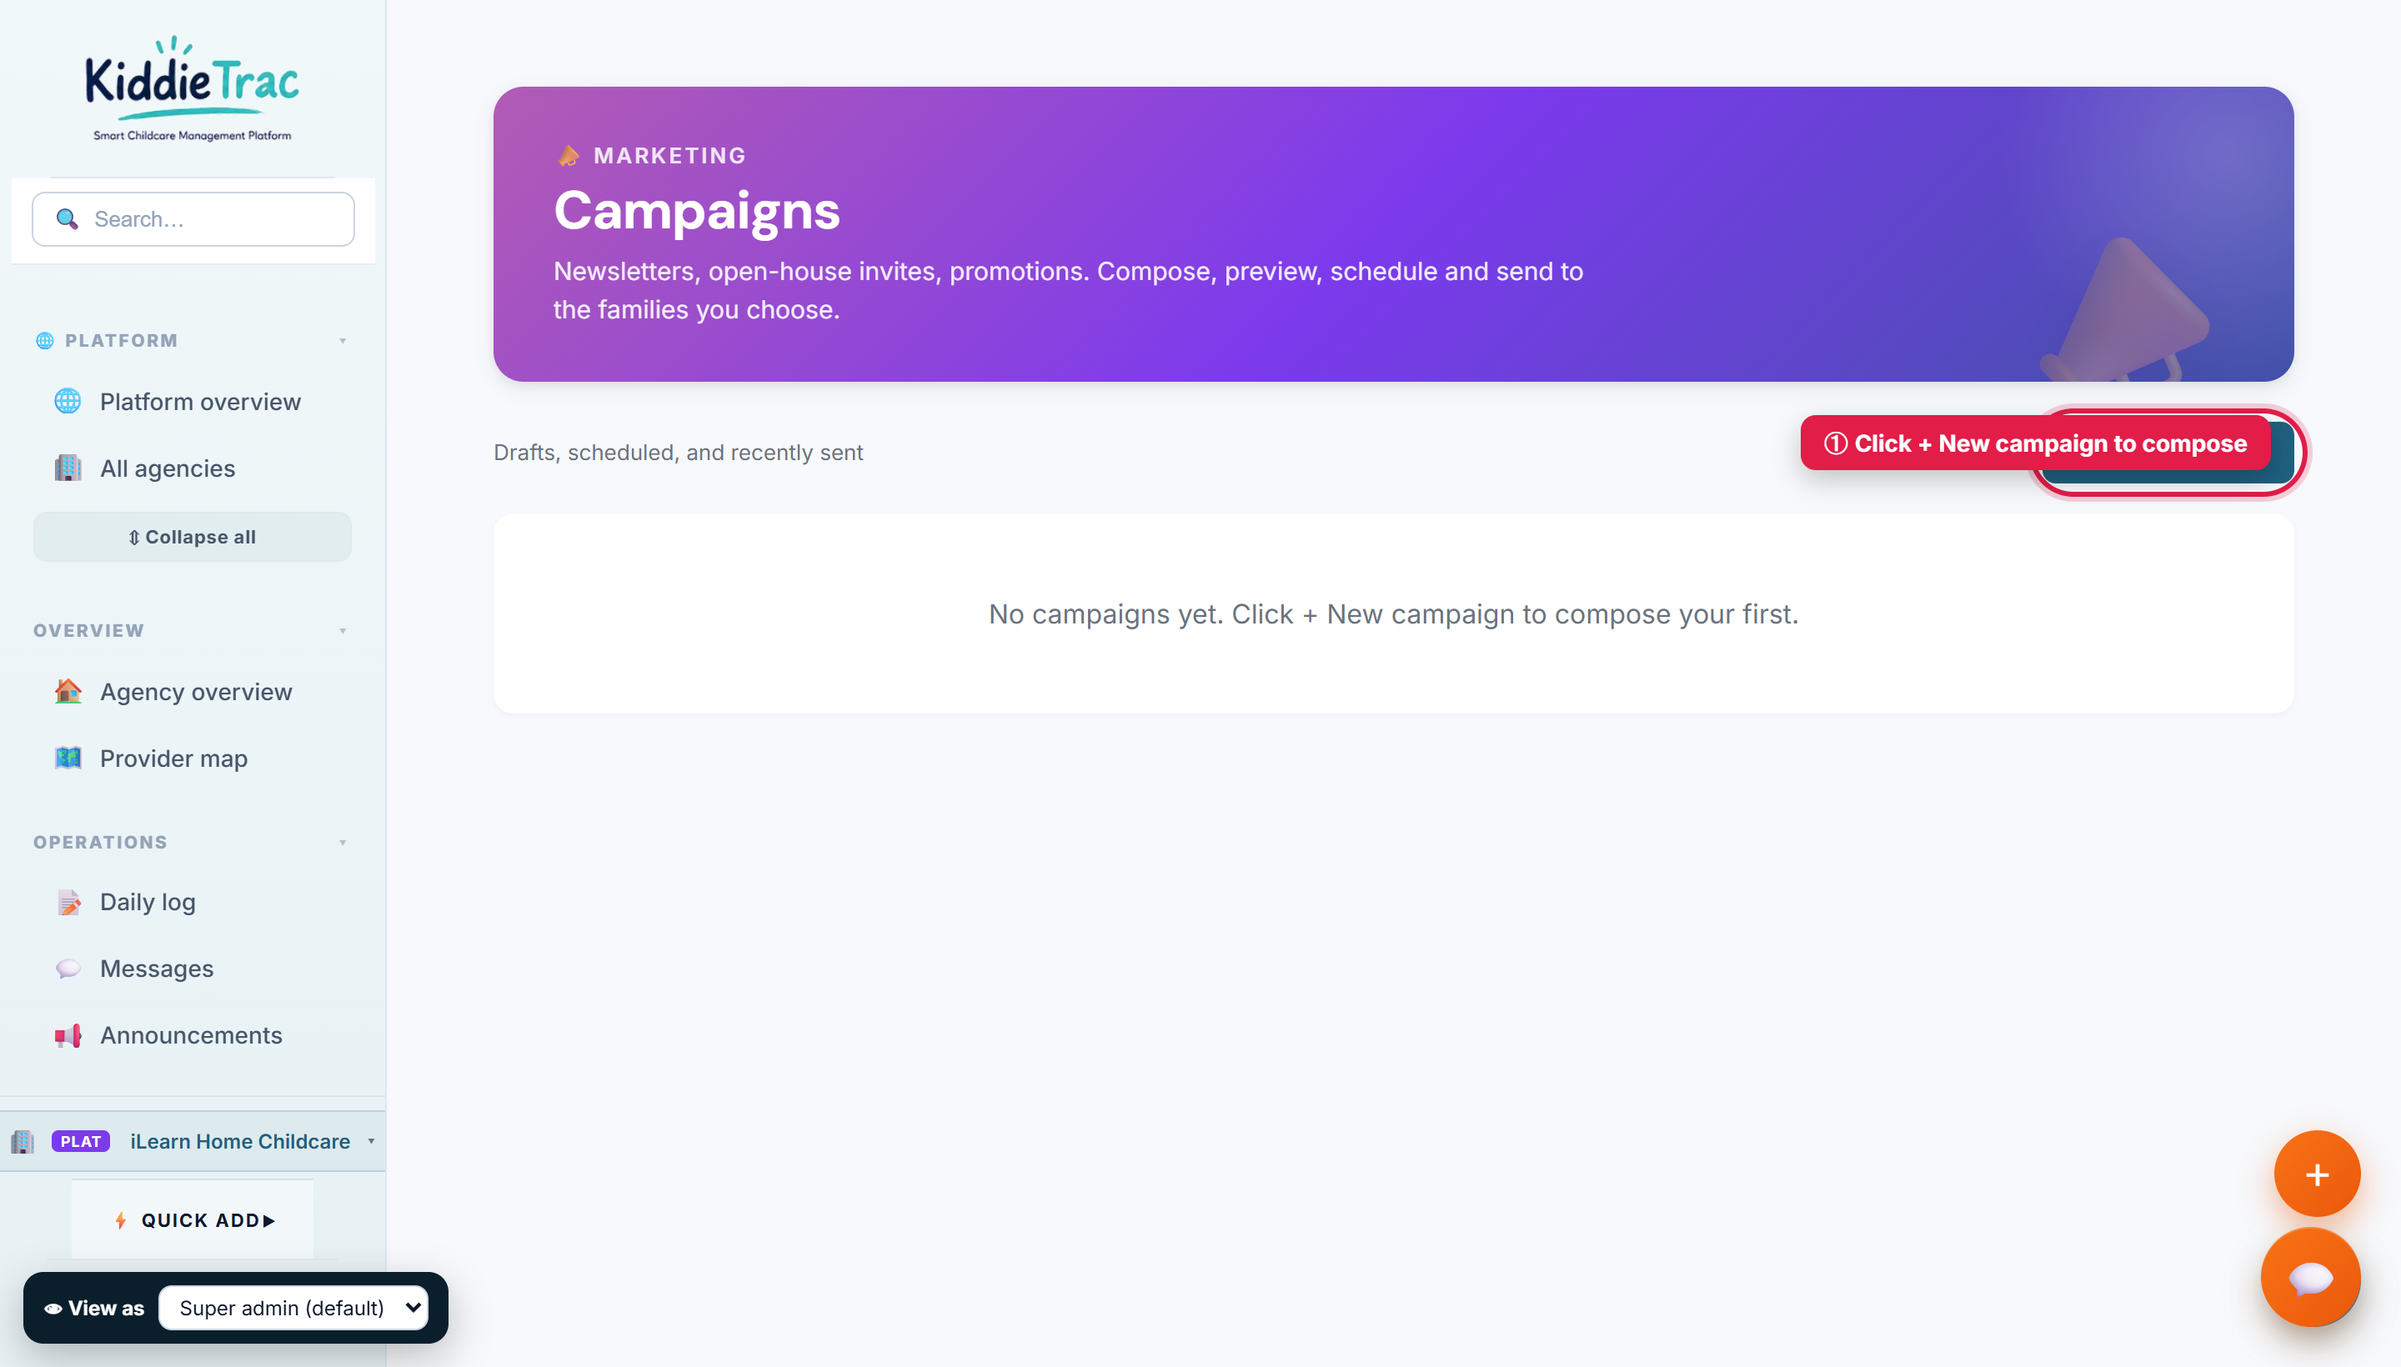
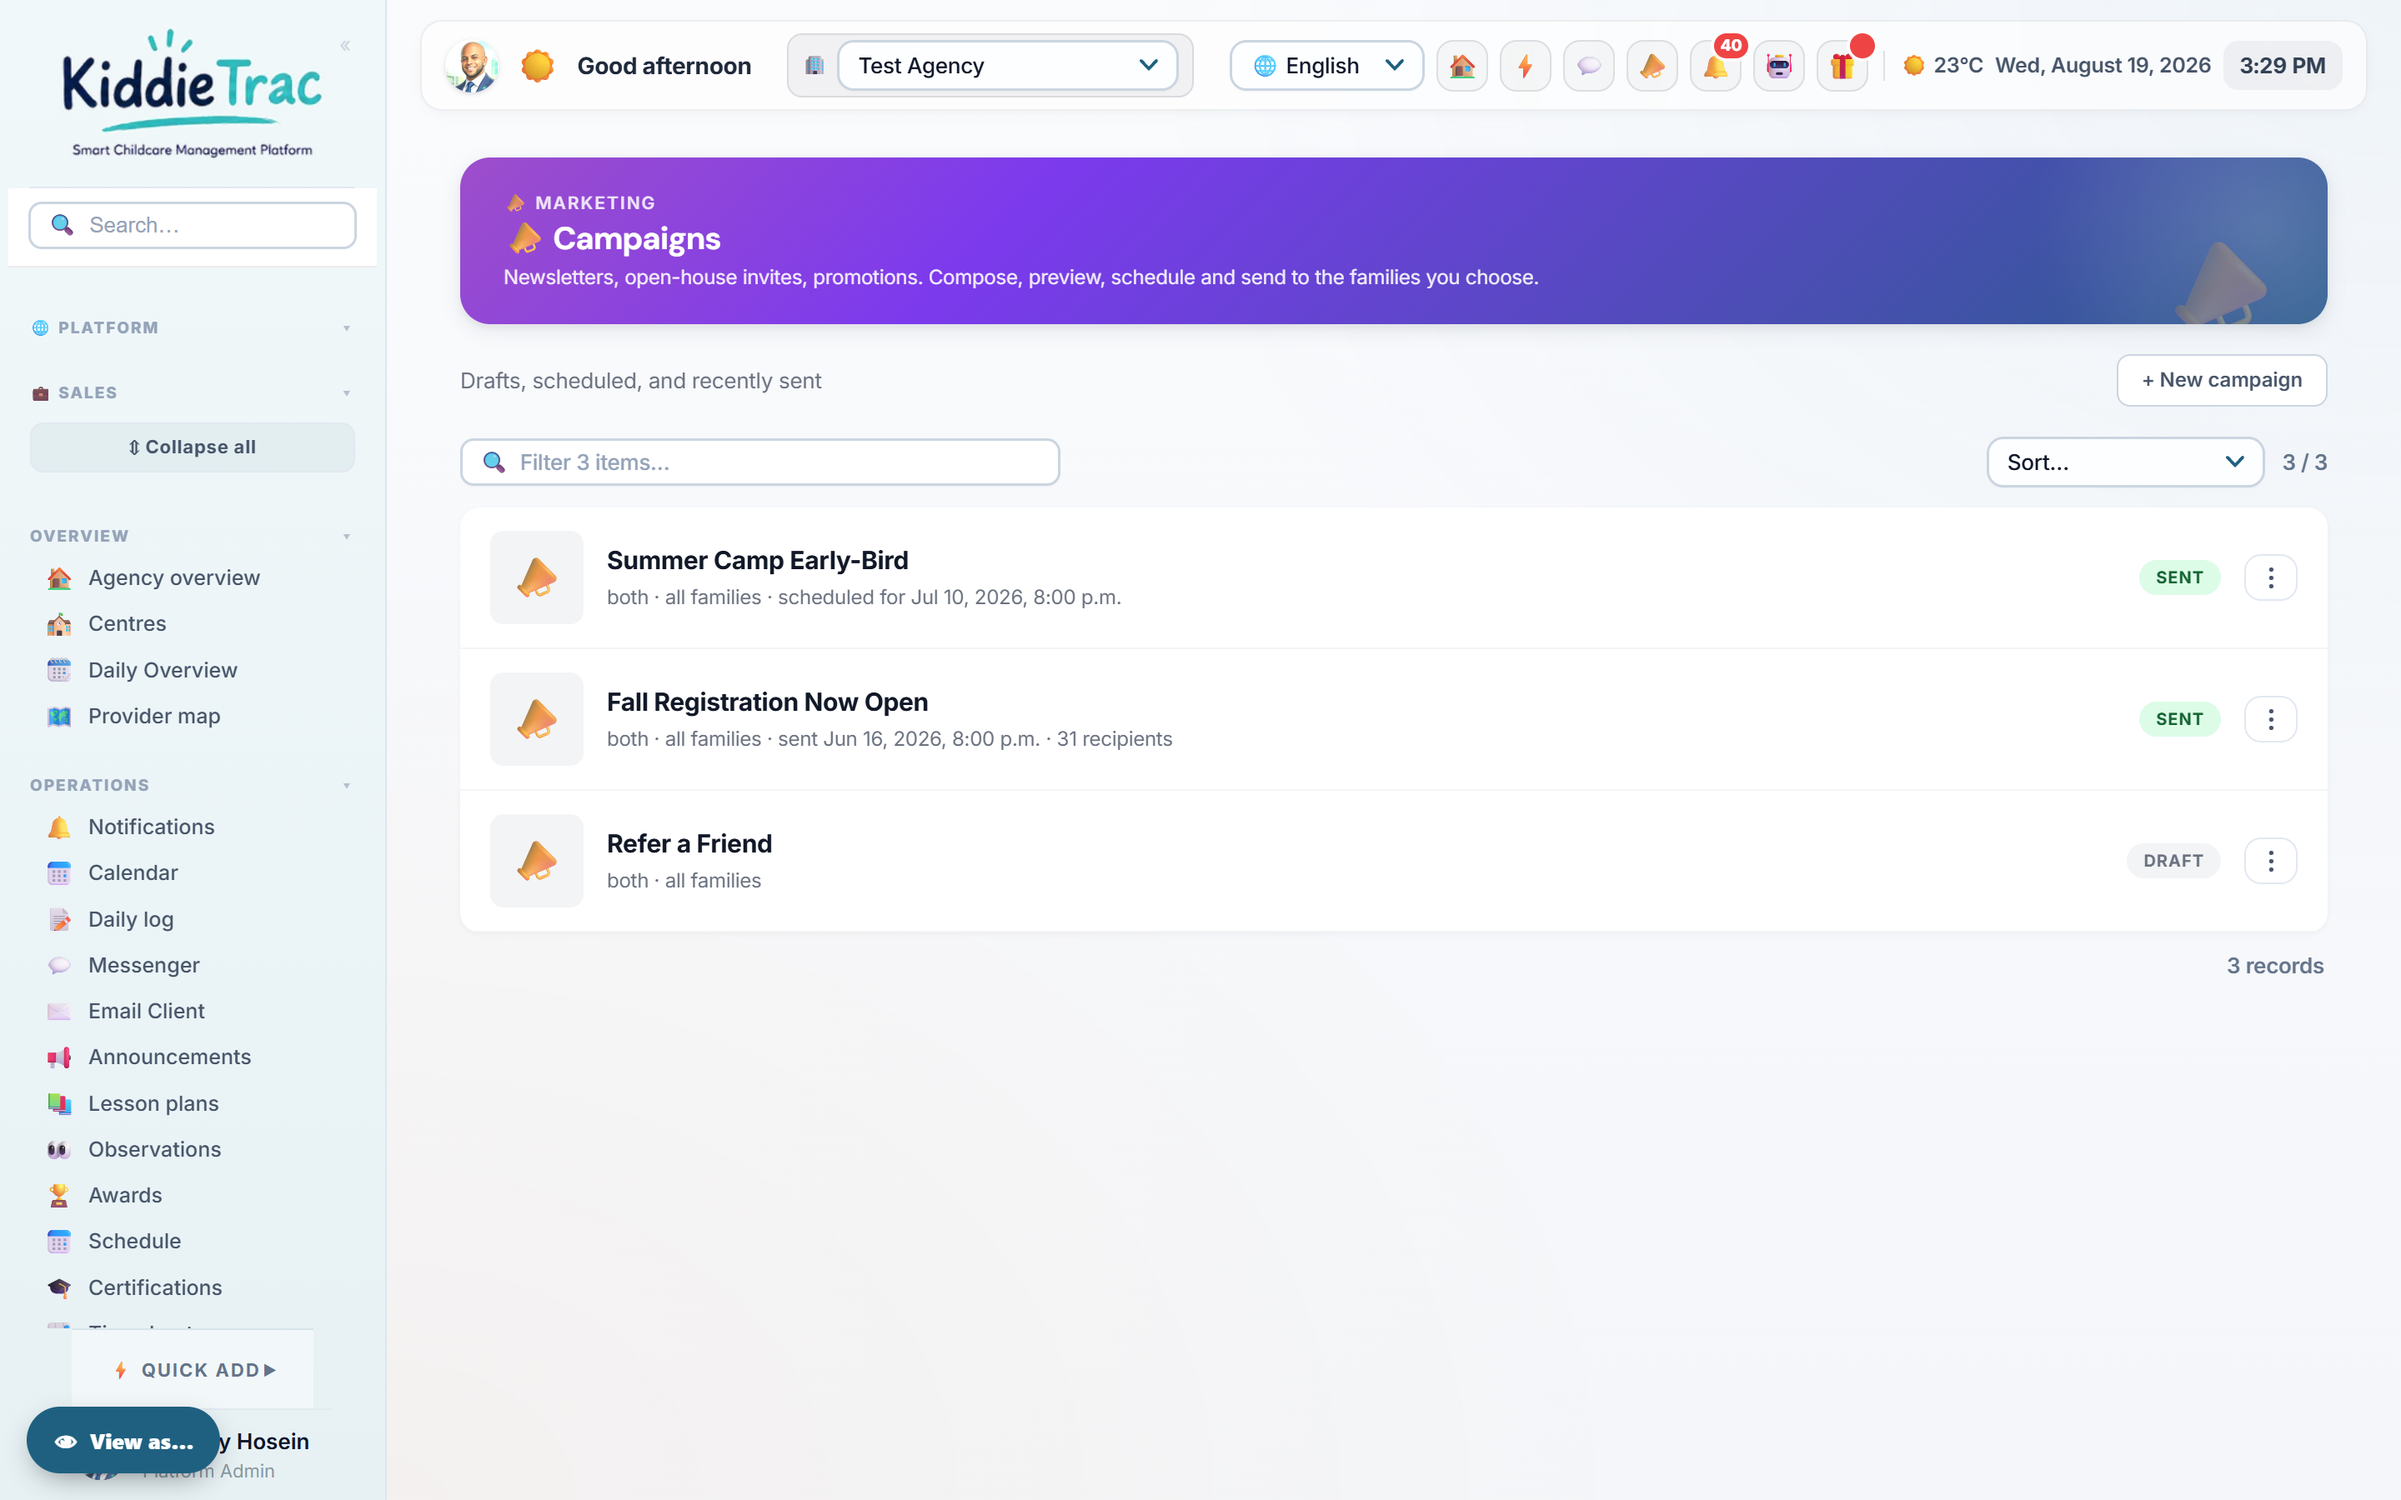
Help screenshots: recapture from Test Agency, and a pipeline to redo it
The published screenshots were taken from the live iLearn agency and served from a
public, unauthenticated URL. tour/children.png alone showed fifteen named enrolled
children with their ages and family names; provider-map.png listed home-childcare
providers against their residential addresses. They were also driving the new-agency
onboarding tour, so every new customer was shown another customer's families.

All ten were removed first and now 404. Replaced with fourteen captured from Test
Agency, whose data is seeded demo content -- including four screens that had no image
at all before (calendar, weekly menu, room assignments, support tickets).

The capture is a script rather than somebody with a screenshot key, so it can be redone
when the UI moves: a minted token written into sessionStorage (no password anywhere), a
fixed agency id of 6, and a DOM pass that removes what a customer never sees before
each shot -- the PLATFORM and SALES nav groups, the SUPER ADMIN badge, the View-as
pill, the phone bottom bar, and the greeting name.

The old images are quarantined off the public root rather than deleted.

Known cosmetic gaps, neither carrying customer data: the empty PLATFORM and SALES group
headings, and the View-as pill, survive on some screens.

diff --git a/tools/help-screenshots/capture.js b/tools/help-screenshots/capture.js
@@ -1,0 +1,99 @@
+/* ═══════════════════════════════════════════════════════════════════
+   KiddieTrac — help/tour screenshot capture, from TEST AGENCY only.
+
+   The previous screenshots were taken from the live iLearn agency and published to a
+   public, unauthenticated URL: real children's names and ages, real family names, and
+   home-childcare providers' residential addresses. They have been removed. Everything
+   here is captured from Test Agency (agency 6), whose data is seeded demo content.
+
+   Auth is a minted personal access token written straight into sessionStorage, so no
+   password is typed or stored anywhere. Mint one with:
+
+     php artisan tinker --execute="echo User::find(1)->createToken('help-capture')->plainTextToken;"
+
+   and pass it as KT_TOKEN. Delete it afterwards.
+
+   Usage:  KT_TOKEN='...' node capture.js
+   ═══════════════════════════════════════════════════════════════════ */
+const fs = require('fs');
+const path = require('path');
+const puppeteer = require('puppeteer');
+const cleanupInPage = require('./clean');
+
+const TOKEN = process.env.KT_TOKEN;
+if (!TOKEN) { console.error('Set KT_TOKEN'); process.exit(1); }
+
+const APP = 'https://app.kiddietrac.com/dashboard.html';
+const API = 'https://api.kiddietrac.com/api/v1';
+const AGENCY = '6';                       // Test Agency — never a live customer
+const OUT = path.join(__dirname, 'out');
+
+// Each shot: the hash to open, the file to write, and how long its data needs.
+const SHOTS = [
+  { file: 'tour/overview.png',   hash: 'dashboard',           wait: 6000 },
+  { file: 'provider-map.png',    hash: 'provider-map',        wait: 9000 },
+  { file: 'tour/children.png',   hash: 'admin-children',      wait: 6500 },
+  { file: 'tour/families.png',   hash: 'admin-families',      wait: 6500 },
+  { file: 'tour/daily-log.png',  hash: 'care-log',            wait: 6500 },
+  { file: 'campaigns.png',       hash: 'marketing-campaigns', wait: 6000 },
+  { file: 'tour/billing.png',    hash: 'billing-settings',    wait: 6000 },
+  { file: 'tour/help.png',       hash: 'help',                wait: 6500 },
+  { file: 'tour/branding.png',   hash: 'admin-branding',      wait: 6000 },
+  { file: 'edit-agency.png',     hash: 'dashboard',           wait: 6000 },
+  { file: 'calendar.png',        hash: 'staff-calendar',      wait: 7000 },
+  { file: 'menu.png',            hash: 'menu',                wait: 7000 },
+  { file: 'room-assignments.png',hash: 'educator-rooms',      wait: 6000 },
+  { file: 'tickets.png',         hash: 'tickets',             wait: 6000 },
+];
+
+// Chrome shown to a customer should not display the platform-admin furniture: the
+// PLATFORM nav group, the "View as" pill, the diagnostics chip. They are Anthony's, not
+// the reader's, and they make a guide look like it was written for somebody else.
+// Page cleanup lives in clean.js — walked in the DOM, not guessed at with CSS.
+
+
+(async () => {
+  fs.mkdirSync(path.join(OUT, 'tour'), { recursive: true });
+
+  const browser = await puppeteer.launch({
+    headless: 'new',
+    args: ['--no-sandbox', '--disable-dev-shm-usage', '--force-device-scale-factor=2'],
+  });
+  const page = await browser.newPage();
+  await page.setViewport({ width: 1440, height: 900, deviceScaleFactor: 2 });
+
+  // Identity, fetched with the token so no password is involved and nothing personal is
+  // hard-coded into this script.
+  const me = await (await fetch(API + '/auth/me', {
+    headers: { Authorization: 'Bearer ' + TOKEN, Accept: 'application/json' },
+  })).json();
+
+  await page.goto(APP, { waitUntil: 'domcontentloaded' });
+  await page.evaluate((tok, user, agency) => {
+    sessionStorage.setItem('kt_token', tok);
+    localStorage.setItem('kt_token', tok);
+    sessionStorage.setItem('kt_user', JSON.stringify(user));
+    sessionStorage.setItem('kt_active_agency_id', agency);
+  }, TOKEN, me, AGENCY);
+
+  for (const shot of SHOTS) {
+    const target = APP + '#' + shot.hash;
+    await page.goto(target, { waitUntil: 'domcontentloaded' });
+    // The shell routes on hashchange, so a same-document navigation needs a nudge.
+    await page.evaluate((h) => { window.location.hash = '#' + h; }, shot.hash);
+    await new Promise((r) => setTimeout(r, shot.wait));
+    await page.evaluate(cleanupInPage);
+    await new Promise((r) => setTimeout(r, 500));
+
+    const dest = path.join(OUT, shot.file);
+    fs.mkdirSync(path.dirname(dest), { recursive: true });
+    await page.screenshot({ path: dest, type: 'png' });
+
+    const title = await page.evaluate(() => (document.title || '') + ' | ' +
+      (document.querySelector('#appMain') || {}).textContent?.replace(/\s+/g, ' ').trim().slice(0, 60));
+    console.log(`  ${shot.file.padEnd(24)} ${fs.statSync(dest).size.toString().padStart(8)} bytes  ${title}`);
+  }
+
+  await browser.close();
+  console.log('done');
+})().catch((e) => { console.error(e); process.exit(1); });

diff --git a/tools/help-screenshots/clean.js b/tools/help-screenshots/clean.js
@@ -1,0 +1,73 @@
+/* The cleanup applied to every captured page.
+ *
+ * Screenshots in customer help must look like the customer's own portal. Captured as a
+ * platform admin they carry furniture no customer has — the PLATFORM and SALES nav
+ * groups, a SUPER ADMIN badge, the "View as" pill — and a reader who cannot find those
+ * menus concludes the guide is for a different product.
+ *
+ * Done by walking the DOM rather than by CSS selectors: the class names differ between
+ * builds, but "the link whose href is #sales-leads" and "the element whose entire text
+ * is SUPER ADMIN" are stable facts about the page.
+ */
+module.exports = function cleanupInPage() {
+  const HIDE_HREFS = [
+    '#platform-overview', '#platform-agencies', '#agencies',
+    '#sales', '#sales-leads', '#sales-new', '#sales-followups',
+    '#sales-plans', '#sales-demo', '#admin-mrr',
+  ];
+  // Compared on LETTERS ONLY. A nav heading renders as "🌐 PLATFORM ▾", so an exact
+  // string match never fires — which is why two passes of this still showed them.
+  const LABELS = ['PLATFORM', 'SALES', 'SUPERADMIN', 'PLAT'];
+  const letters = (t) => (t || '').replace(/[^A-Za-z]/g, '').toUpperCase();
+
+  const hide = (el) => { if (el && el.style) { el.style.display = 'none'; } };
+
+  // Platform-only nav links, and the group headings above them.
+  document.querySelectorAll('.app-sidebar a[href], .sidebar-nav a[href]').forEach((a) => {
+    if (HIDE_HREFS.indexOf(a.getAttribute('href')) !== -1) {
+      hide(a.closest('li') || a);
+    }
+  });
+
+  // Elements whose ENTIRE text is a platform-only label. Not leaf-only: a nav group
+  // heading is an icon span plus a caret plus the word, so a leaf test misses it. The
+  // guard is "contains no link", which keeps this from ever swallowing a whole group
+  // that still has navigation in it.
+  document.querySelectorAll('.app-sidebar *, .kt-topbar *, header *').forEach((el) => {
+    if (el.querySelector('a')) return;
+    if (LABELS.indexOf(letters(el.textContent)) === -1) return;
+    hide(el);
+  });
+
+  // The "View as" pill, the diagnostics chip, and the phone bottom bar — none of which
+  // belong in a desktop guide.
+  document.querySelectorAll('[id*="viewas" i],[class*="viewas" i],[class*="view-as" i],' +
+    '#kt-diag-chip,.kt-diag-chip,[class*="mobilenav" i],[id*="mobilenav" i],' +
+    '[class*="mobile-nav" i]').forEach(hide);
+  // The "View as" pill is a fixed-position control bottom-left. Matched by what it is —
+  // pinned, and its text begins "View as" — rather than by a class name that changes.
+  // Only an element that is ITSELF pinned and whose OWN text begins "View as". The
+  // previous version climbed to the nearest pinned ancestor, which is the app shell —
+  // it hid the entire page and produced 19KB of blank white.
+  Array.prototype.forEach.call(document.querySelectorAll('body > *, body > * > *'), (el) => {
+    if (el.children.length > 3) return;
+    if (!/^View as/i.test((el.textContent || '').trim())) return;
+    const cs = getComputedStyle(el);
+    if (cs.position === 'fixed') { hide(el); }
+  });
+
+  // Welcome toasts pop in a second after load and are not part of any screen.
+  document.querySelectorAll('[class*="toast" i],[id*="toast" i],[class*="snackbar" i]').forEach(hide);
+
+  // The greeting names the person who took the screenshot. Make it impersonal.
+  document.querySelectorAll('.kt-hero-greet, [class*="greet" i]').forEach((el) => {
+    if (/Good (morning|afternoon|evening),/.test(el.textContent || '')) {
+      el.textContent = (el.textContent.match(/Good (morning|afternoon|evening)/) || ['Welcome'])[0];
+    }
+  });
+
+  // Scrollbars differ per machine and add nothing.
+  const s = document.createElement('style');
+  s.textContent = '*{scrollbar-width:none!important}::-webkit-scrollbar{display:none!important}';
+  document.head.appendChild(s);
+};

diff --git a/tools/help-screenshots/README.md b/tools/help-screenshots/README.md
@@ -1,0 +1,36 @@
+# Help & tour screenshots
+
+Captured from **Test Agency (agency 6) only**. Never from a live customer.
+
+On 2026-08-19 the published set was found to have been taken from the live iLearn
+agency and served from a public, unauthenticated URL: fifteen named children with ages
+and family names, and home-childcare providers listed against their residential
+addresses. Those files are quarantined at `~/help-img-quarantine-2026-08-19` on the
+host and must not be restored.
+
+## Re-running
+
+    php artisan tinker --execute="echo App\Models\User::find(1)->createToken('help-capture')->plainTextToken;"
+    cd tools/help-screenshots && npm install puppeteer
+    KT_TOKEN="<token>" node capture.js
+    scp out/*.png      <host>:~/kiddietrac/backend/public/help-img/
+    scp out/tour/*.png <host>:~/kiddietrac/backend/public/help-img/tour/
+
+Then delete the token.
+
+`clean.js` strips what a customer never sees, before each shot: the PLATFORM and SALES
+nav groups, the SUPER ADMIN badge, the View-as pill, the phone bottom bar, and the
+greeting name. It matches on what things ARE — an href, the letters of a label, a
+pinned element — rather than on class names, which change between builds.
+
+Two cautions learned the hard way:
+
+- Matching a nav heading on its exact text fails: it renders as "🌐 PLATFORM ▾", so
+  compare letters only.
+- Do not climb to the nearest pinned ancestor to hide the View-as pill. The app shell
+  is pinned, so that hides the whole page and every screenshot comes out blank white at
+  about 19KB. Check file sizes after a run; a uniform tiny size means the page was
+  hidden, and a uniform large size means every shot captured the same thing.
+
+Known cosmetic gaps: the empty PLATFORM and SALES group headings, and the View-as pill,
+can still survive on some screens. Neither carries customer data.
